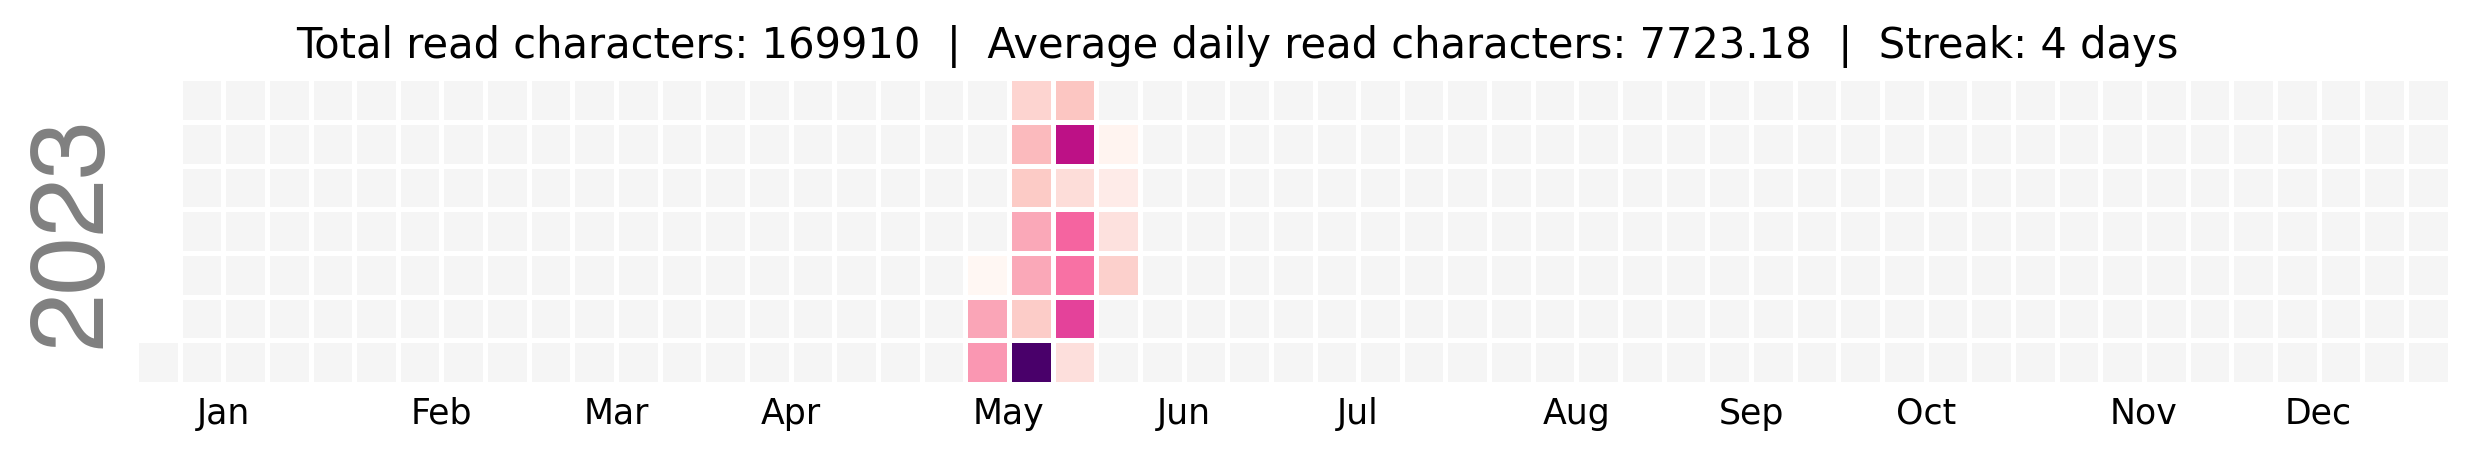
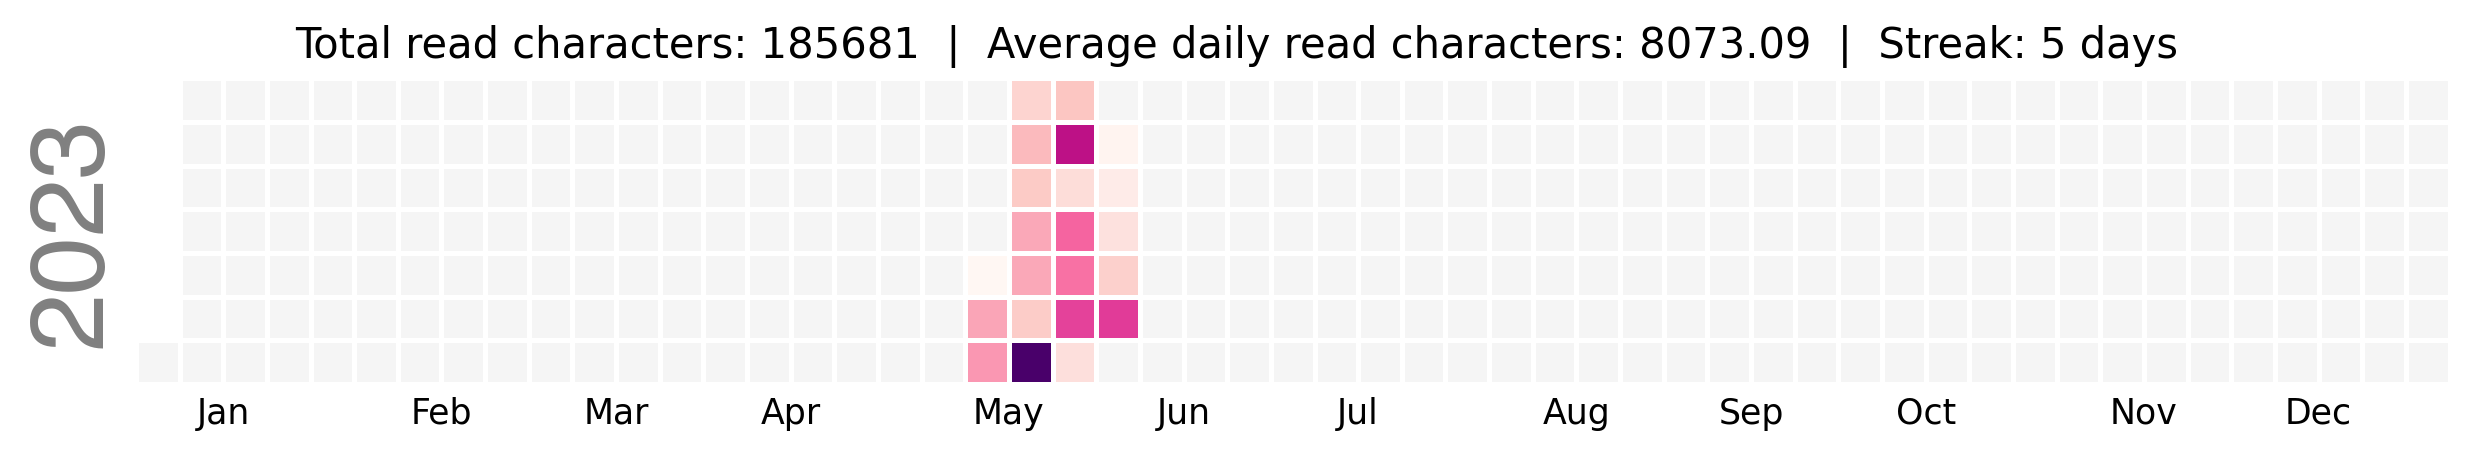
update book

diff --git a/src/markdown/blog/book-club.md b/src/markdown/blog/book-club.md
@@ -6,6 +6,12 @@ modi: '2023-04-09'
 
 This blog post serves as a log for the book club I'm in.
 
+### Heatmap
+
+[![heatmap](/images/club.png)](/images/club.png)
+
+### Log 
+
 ## 20xx.xx.xx | Stories of the sahara
 
 *   Stories of the sahara \[6p\]
@@ -25,7 +31,7 @@ Rating: np.average(\[1, 3, 2, 3, 2, 4\]) = 2.5
 *   The Hitchhiker's guide to the Galaxy \[3p\]
 *   Weird Westerners \[1p\]
 
-## 2023.01.01 | Northanger Abbey
+## 2023.04.01 | Northanger Abbey
 
 Rating: np.average(\[4, 6, 5, 5, 6\]) = 5.2
 
